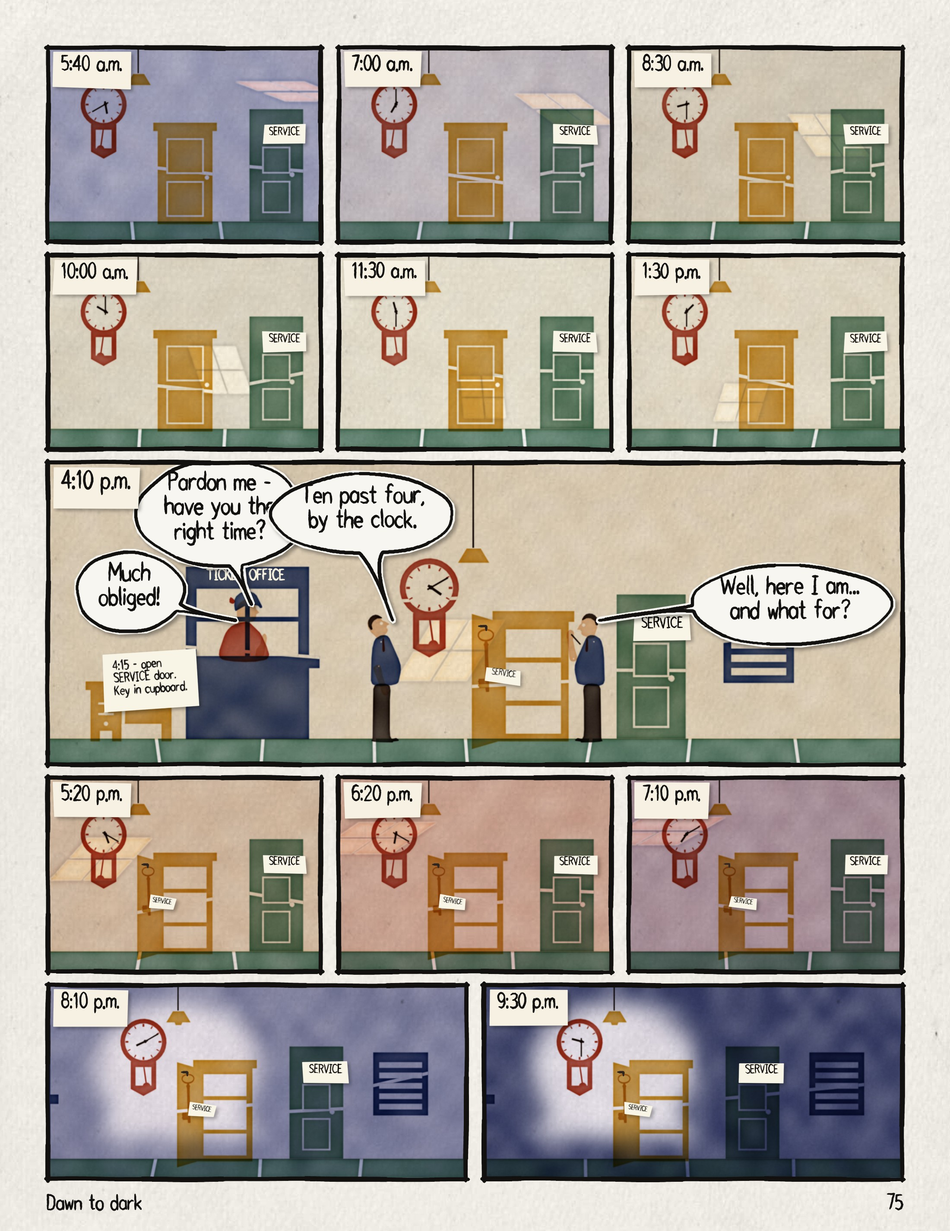
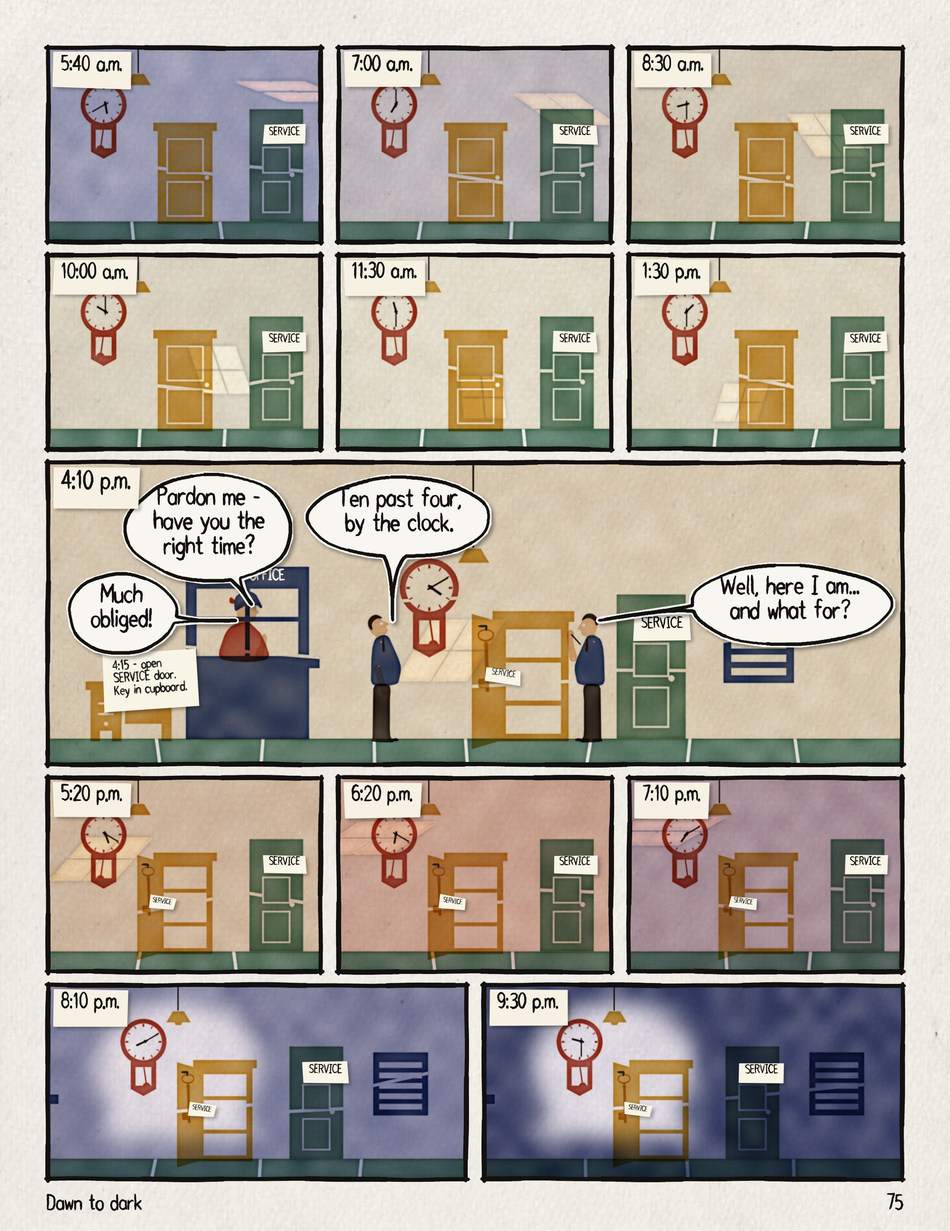
99 ways: batches 7-8 in progress
Claude-Session: https://claude.ai/code/session_012XUjiSZ2P4CmYc3BGshy5Q

Changed region(s): [[0.0618, 0.3747, 0.5255, 0.5621]]

diff --git a/paeleo/scion/oulipo/films/swarm/99-ways/build/p75_dawn_to_dark.py b/paeleo/scion/oulipo/films/swarm/99-ways/build/p75_dawn_to_dark.py
@@ -250,9 +250,9 @@ def world_for(k, w, h):
 
 def incident_text(c, P, sd):
     cap = 40
-    balloon(c, ["Pardon me -", "have you the", "right time?"], cap, (400, 118), P(-300, 255), sd + 21)
-    balloon(c, ["Ten past four,", "by the clock."], cap, (730, 120), P(102, 300), sd + 22)
-    balloon(c, ["Much", "obliged!"], cap, (190, 300), P(-345, 300), sd + 23)
+    balloon(c, ["Pardon me -", "have you the", "right time?"], cap, (375, 152), P(-300, 255), sd + 21)
+    balloon(c, ["Ten past four,", "by the clock."], cap, (815, 128), P(102, 300), sd + 22)
+    balloon(c, ["Much", "obliged!"], cap, (172, 350), P(-345, 300), sd + 23)
     balloon(c, ["Well, here I am...", "and what for?"], cap, (1720, 330), P(690, 300), sd + 24)
 
 
